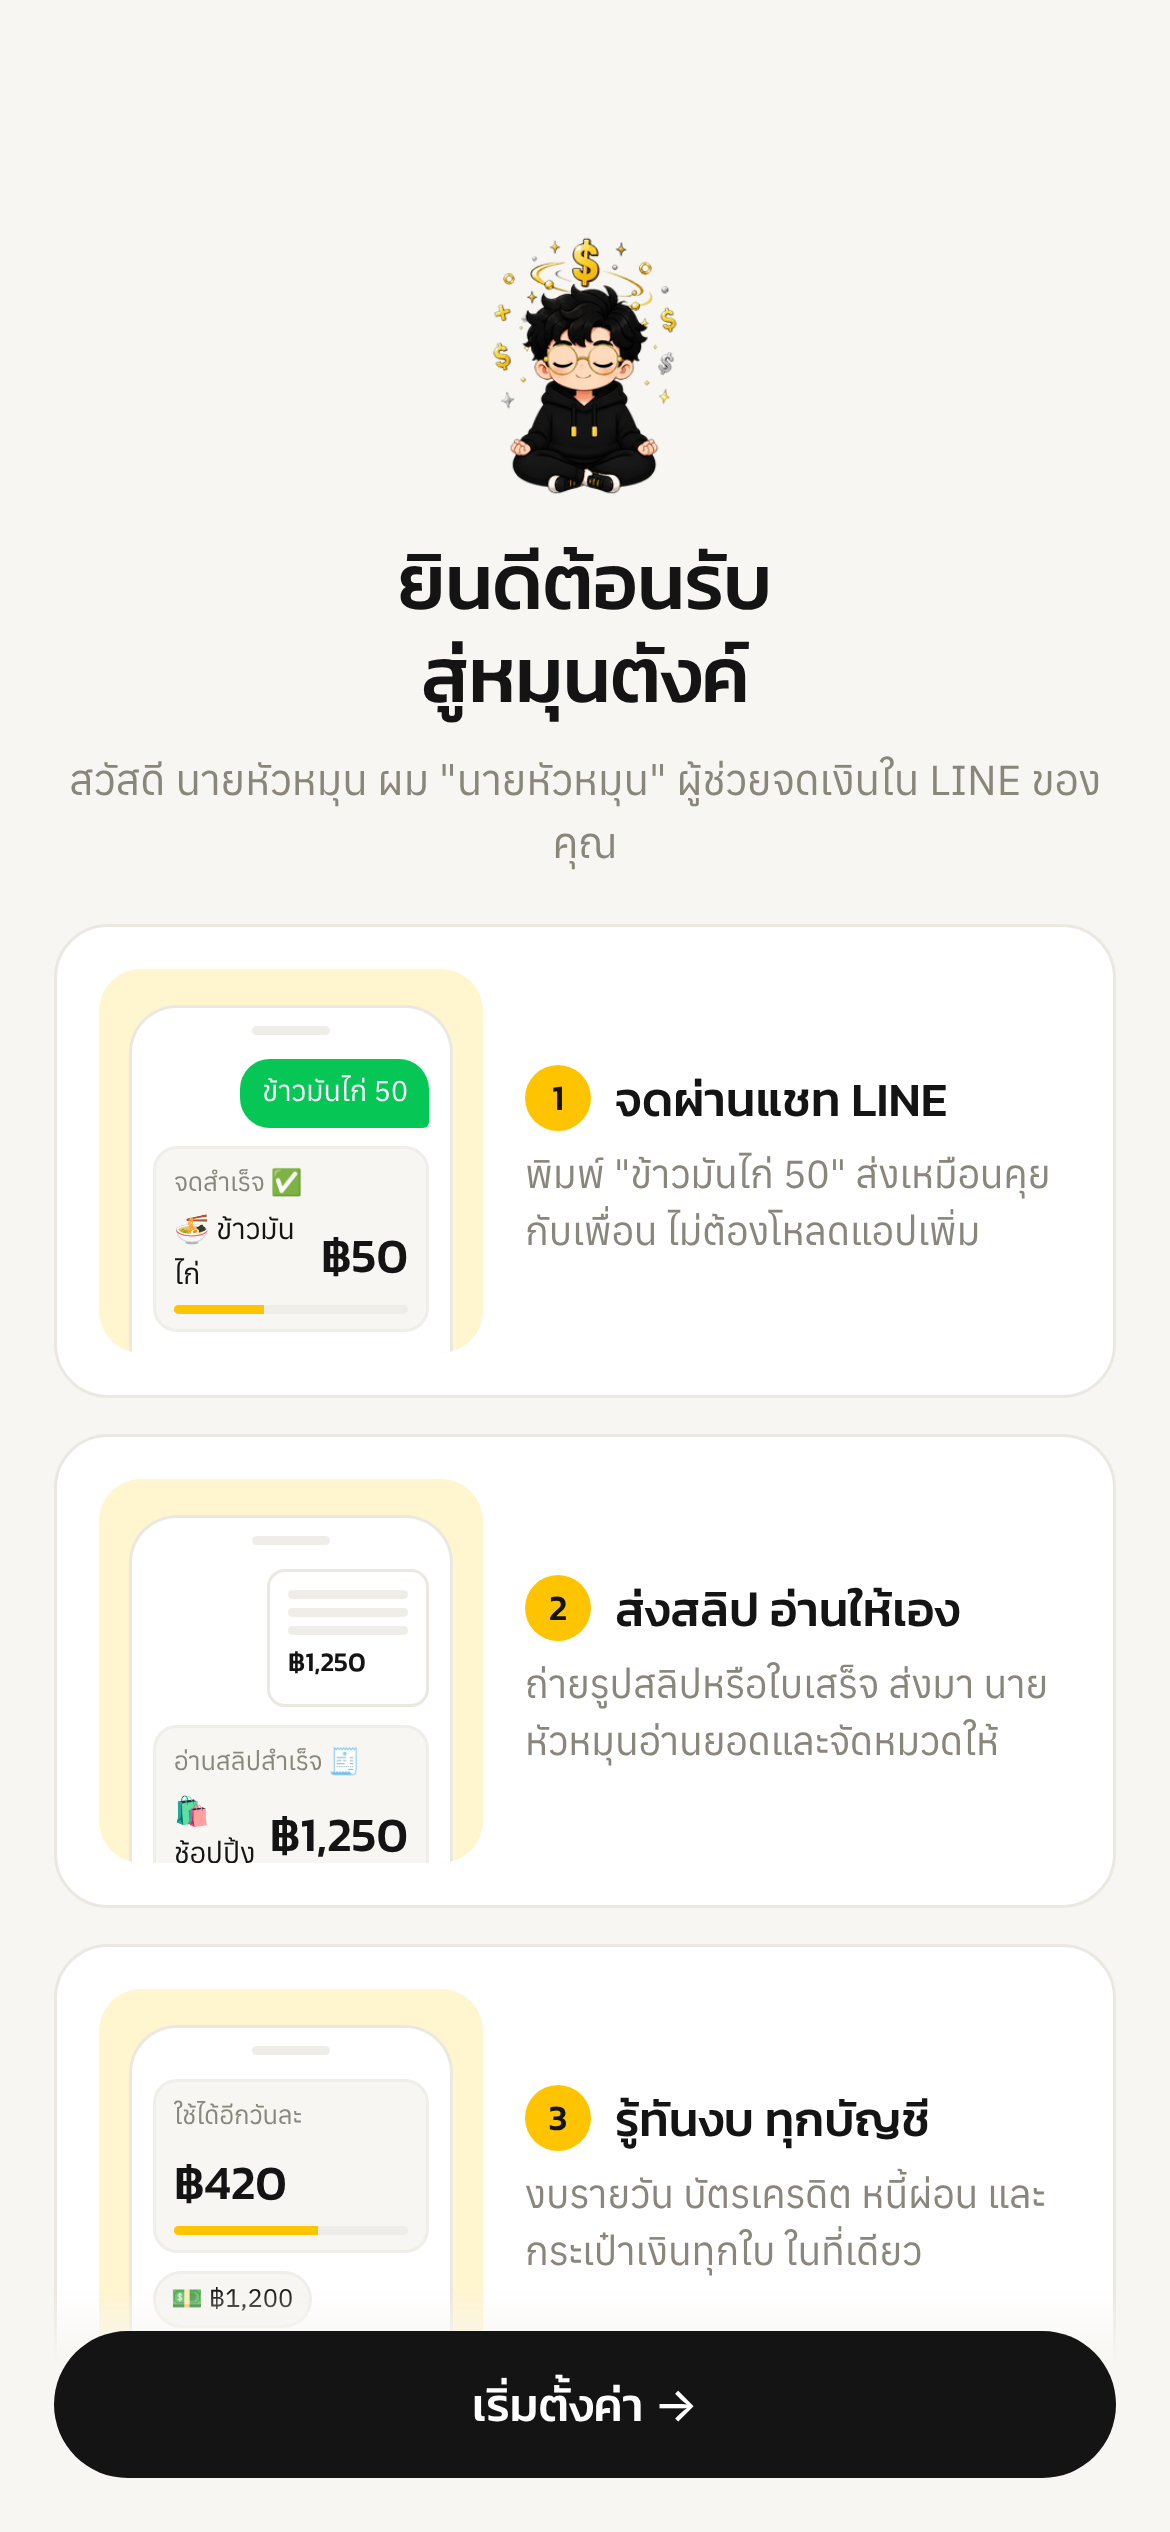
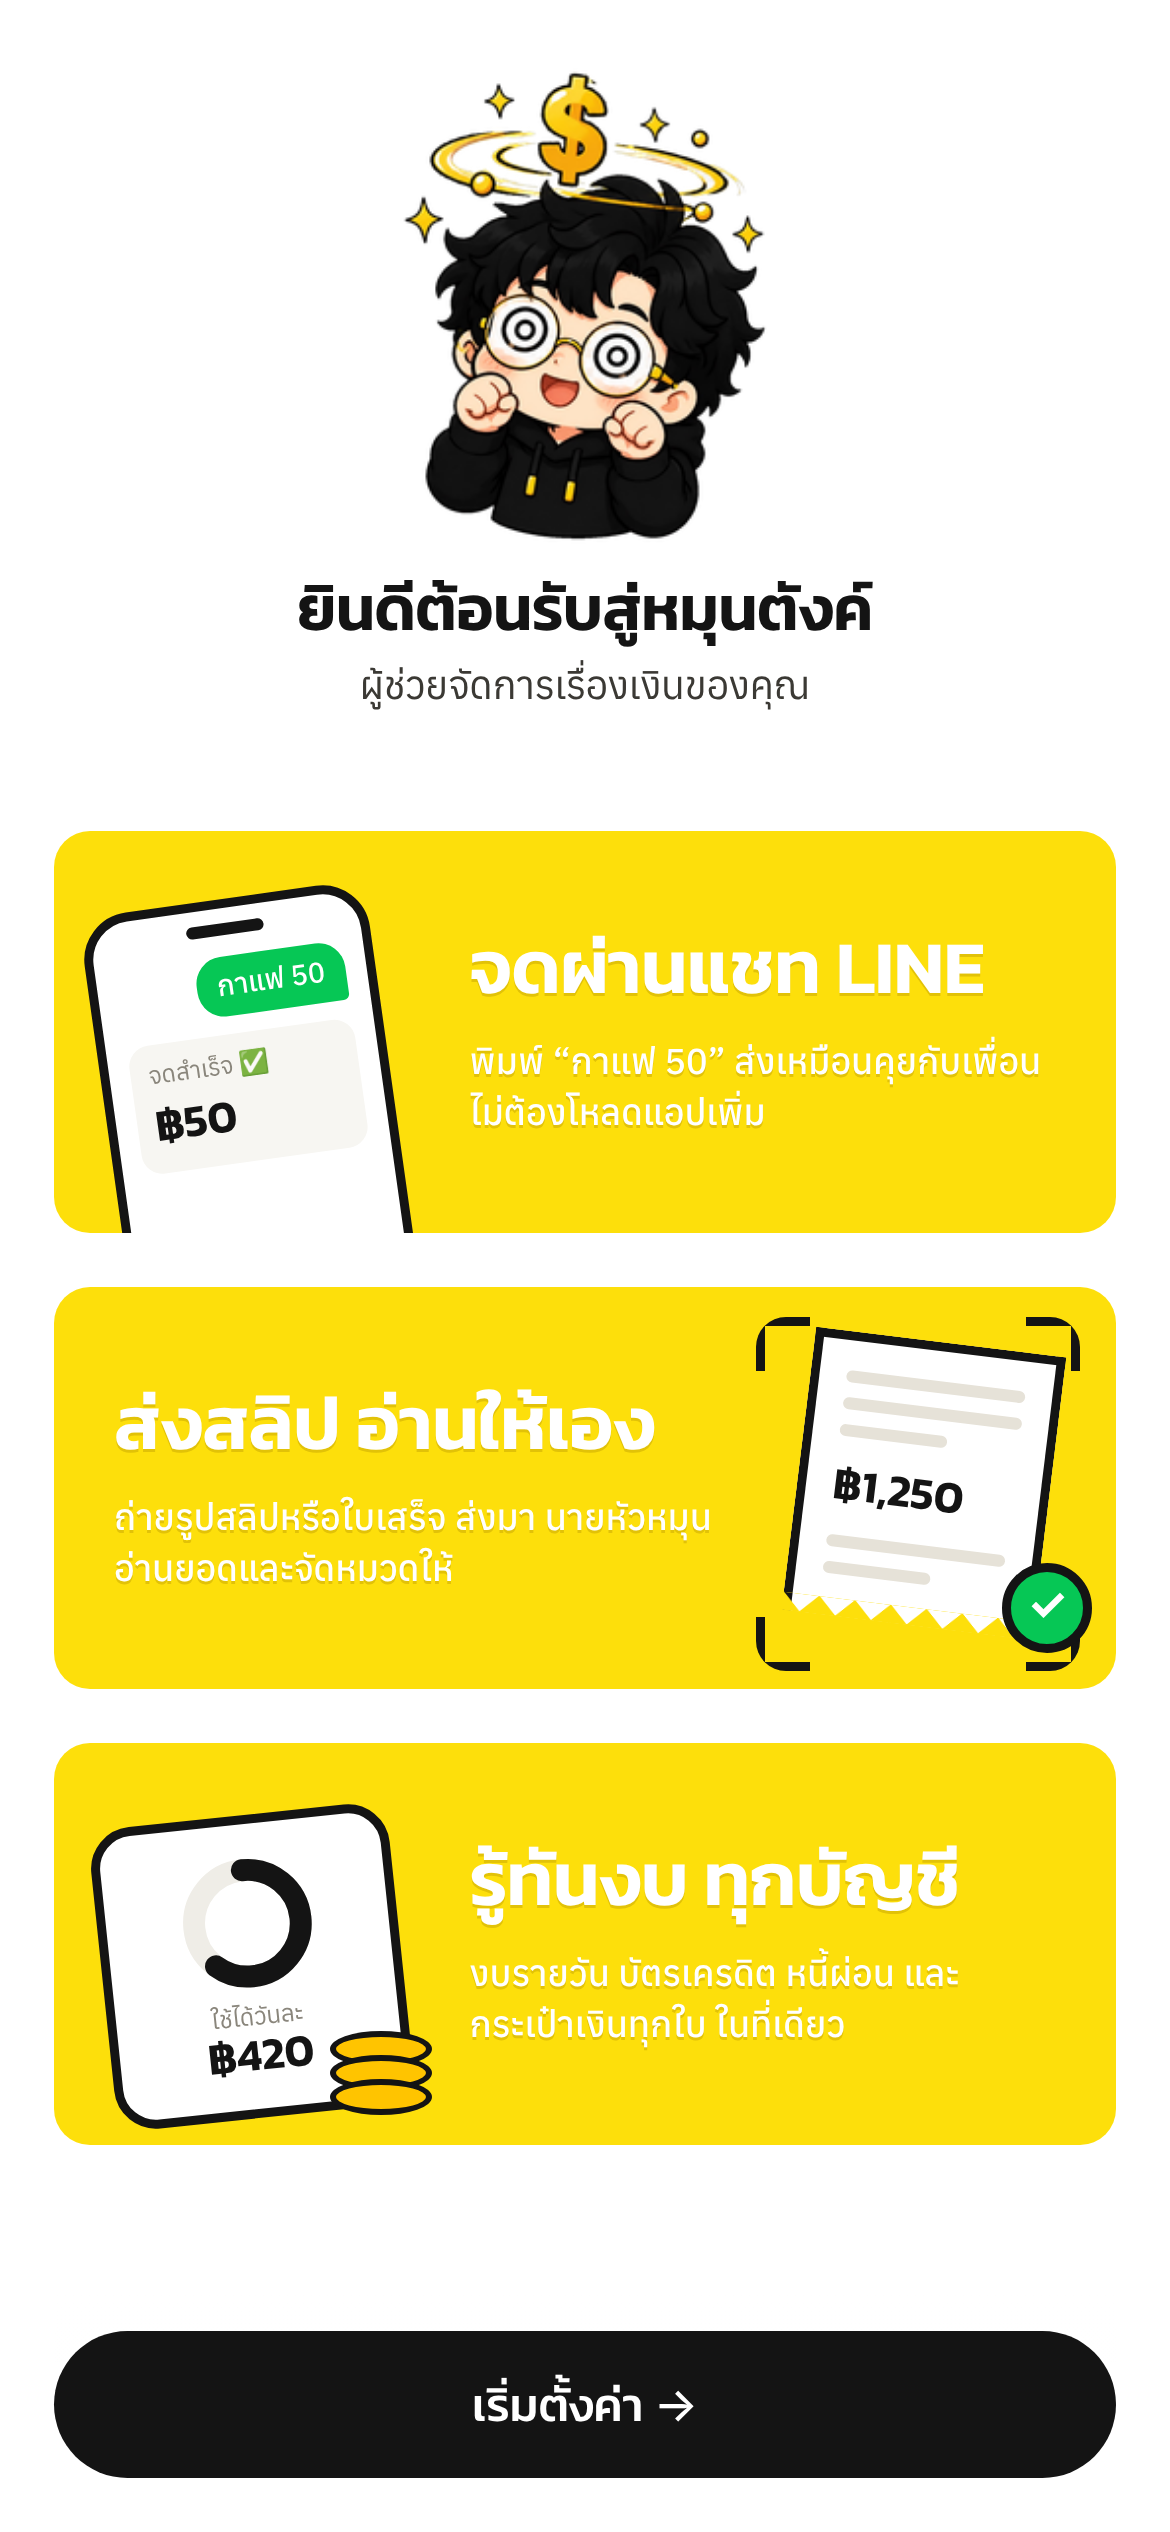
Welcome screen follows the new design: excited mascot, yellow feature cards with illustrations
Claude-Session: https://claude.ai/code/session_015tPG4ihv4SHZFFUdV6FxEj

diff --git a/public/css/app.css b/public/css/app.css
@@ -565,30 +565,55 @@ button.mt-budgetline { border: 0; background: none; padding: 0; text-align: left
 .ob-foot .mt-btn:disabled { background: var(--faint); cursor: default; }
 .ob-skip { border: 0; background: none; color: var(--muted); font-size: 14px; padding: 12px 14px; }
 
-/* ยินดีต้อนรับ */
+/* ยินดีต้อนรับ (ตามดีไซน์: พื้นขาว · นายหัวหมุนตาหมุน · การ์ดเหลืองข้อความขาว สลับซ้าย-ขวา) */
 .ob-hello { text-align: center; display: flex; flex-direction: column; align-items: center; gap: 4px; padding-top: 6px; }
 .ob-mascot { width: 92px; height: 92px; object-fit: contain; margin-bottom: 6px; }
-.ob-feats { display: grid; gap: 12px; }
-.ob-feat { display: grid; grid-template-columns: 128px 1fr; gap: 14px; align-items: center; background: var(--card); border: 1px solid var(--border); border-radius: var(--r-md); padding: 14px; }
-.ob-feat b { font-family: var(--font-display); font-weight: 500; font-size: 16px; display: flex; align-items: center; gap: 8px; }
-.ob-feat b .num { width: 22px; height: 22px; border-radius: 50%; background: var(--accent); display: grid; place-items: center; font-size: 12px; flex: 0 0 22px; }
-.ob-feat p { margin: 4px 0 0; font-size: 13px; color: var(--muted); }
-.ob-feat-m { background: var(--accent-soft); border-radius: 14px; padding: 12px 10px 0; overflow: hidden; height: 128px; }
-.ob-phone { background: var(--card); border: 1px solid var(--border); border-bottom: 0; border-radius: 16px 16px 0 0; padding: 6px 7px 10px; height: 100%; display: flex; flex-direction: column; gap: 6px; font-size: 9.5px; }
-.ob-phone-bar { display: flex; justify-content: center; padding-bottom: 2px; }
-.ob-phone-bar i { width: 26px; height: 3px; border-radius: 3px; background: var(--track); }
-.ob-bub { align-self: flex-end; background: #06c755; color: #fff; border-radius: 10px 10px 2px 10px; padding: 4px 7px; max-width: 90%; }
-.ob-card { background: var(--bg); border: 1px solid var(--line); border-radius: 8px; padding: 5px 6px; display: flex; flex-direction: column; gap: 3px; }
-.ob-card small { color: var(--muted); font-size: 8.5px; }
-.ob-row { display: flex; justify-content: space-between; gap: 4px; }
-.ob-bar { display: block; height: 3px; background: var(--track); border-radius: 3px; overflow: hidden; }
-.ob-bar b { display: block; height: 100%; background: var(--accent); }
-.ob-big { font-family: var(--font-num); font-size: 16px; font-weight: 500; }
-.ob-slip { display: grid; gap: 3px; width: 54px; background: var(--card); color: var(--ink); border: 1px solid var(--border); border-radius: 6px; padding: 6px; }
-.ob-slip i { display: block; height: 3px; background: var(--track); border-radius: 2px; }
-.ob-slip b { font-size: 9px; }
-.ob-chips { display: flex; flex-wrap: wrap; gap: 3px; }
-.ob-chips span { background: var(--bg); border: 1px solid var(--line); border-radius: 999px; padding: 2px 5px; font-size: 8.5px; }
+.mt-app[data-tab='onboard']:has(.ob-welcome), .mt-main:has(.ob-welcome) { background: #fff; }
+.ob-welcome .ob-foot { background: linear-gradient(to bottom, rgba(255, 255, 255, 0), #fff 30%); }
+.ob-hello-w { padding-top: 0; gap: 2px; }
+.ob-hello-w .ob-mascot { width: 168px; height: 168px; margin: 0 0 2px; }
+.ob-hello-w h1 { font-size: 21px; font-weight: 600; }
+.ob-hello-w p { margin-top: 2px; font-size: 13px; color: var(--ink-2); }
+.ob-feats { display: grid; gap: 18px; margin-top: 22px; }
+.ob-feat { --y: #fddf0b; position: relative; display: grid; grid-template-columns: 38% 1fr; align-items: center; min-height: 134px; background: var(--y); border-radius: 12px; overflow: hidden; color: #fff; }
+.ob-feat.is-left { grid-template-columns: 1fr 38%; }
+.ob-feat.is-left .ob-feat-t { order: -1; padding: 18px 0 18px 20px; }
+.ob-feat-t { padding: 18px 18px 18px 4px; }
+.ob-feat h2 { margin: 0; font-family: var(--font-display); font-weight: 600; font-size: 25px; line-height: 1.15; letter-spacing: -0.01em; text-shadow: 0 1px 0 rgba(176, 140, 0, 0.35); }
+.ob-feat p { margin: 8px 0 0; font-size: 12px; line-height: 1.45; font-weight: 500; text-shadow: 0 1px 0 rgba(176, 140, 0, 0.35); }
+.ob-feat-art { position: relative; align-self: stretch; min-height: 134px; }
+
+/* 1 · แชท: มือถือขาวเอียง โผล่จากขอบล่าง */
+.ob-art-phone { position: absolute; left: 18px; top: 22px; width: 96px; height: 150px; background: #fff; border-radius: 16px; border: 3px solid var(--ink); transform: rotate(-8deg); padding: 16px 7px 0; display: flex; flex-direction: column; gap: 6px; font-size: 9.5px; color: var(--ink); }
+.ob-art-notch { position: absolute; top: 5px; left: 50%; width: 26px; height: 4px; margin-left: -13px; border-radius: 4px; background: var(--ink); }
+.ob-art-bub { align-self: flex-end; background: #06c755; color: #fff; border-radius: 9px 9px 2px 9px; padding: 3px 7px; font-weight: 500; }
+.ob-art-ok { display: flex; flex-direction: column; background: #f7f6f2; border-radius: 7px; padding: 4px 6px; }
+.ob-art-ok small { font-size: 8px; color: var(--muted); }
+.ob-art-ok b { font-size: 15px; font-weight: 600; }
+
+/* 2 · สลิป: ใบเสร็จขาวขอบหยัก + กรอบสแกน + เครื่องหมายถูก */
+.ob-art-slip { position: absolute; right: 22px; top: 18px; width: 84px; padding: 10px 9px 14px; background: #fff; border: 3px solid var(--ink); border-bottom: 0; transform: rotate(7deg); display: flex; flex-direction: column; gap: 5px;
+  -webkit-mask: linear-gradient(#000 0 0) top / 100% calc(100% - 6px) no-repeat, conic-gradient(from -45deg at bottom, #0000, #000 1deg 89deg, #0000 90deg) bottom / 12px 6px repeat-x;
+  mask: linear-gradient(#000 0 0) top / 100% calc(100% - 6px) no-repeat, conic-gradient(from -45deg at bottom, #0000, #000 1deg 89deg, #0000 90deg) bottom / 12px 6px repeat-x; }
+.ob-art-slip i { display: block; height: 4px; border-radius: 3px; background: #e6e2d8; }
+.ob-art-slip i.is-s { width: 60%; }
+.ob-art-slip b { font-size: 15px; font-weight: 600; color: var(--ink); }
+.ob-art-scan { position: absolute; right: 12px; top: 10px; width: 108px; height: 118px; border-radius: 10px;
+  background: linear-gradient(var(--ink), var(--ink)) top left / 18px 3px, linear-gradient(var(--ink), var(--ink)) top left / 3px 18px, linear-gradient(var(--ink), var(--ink)) top right / 18px 3px, linear-gradient(var(--ink), var(--ink)) top right / 3px 18px,
+    linear-gradient(var(--ink), var(--ink)) bottom left / 18px 3px, linear-gradient(var(--ink), var(--ink)) bottom left / 3px 18px, linear-gradient(var(--ink), var(--ink)) bottom right / 18px 3px, linear-gradient(var(--ink), var(--ink)) bottom right / 3px 18px; background-repeat: no-repeat; }
+.ob-art-check { position: absolute; right: 8px; bottom: 12px; width: 30px; height: 30px; border-radius: 50%; background: #06c755; color: #fff; border: 3px solid var(--ink); display: grid; place-items: center; font-weight: 700; font-size: 15px; }
+
+/* 3 · งบ: การ์ดวงแหวน + กองเหรียญ */
+.ob-art-budget { position: absolute; left: 16px; top: 24px; width: 100px; padding: 10px 8px; background: #fff; border: 3px solid var(--ink); border-radius: 14px; transform: rotate(-6deg); display: flex; flex-direction: column; align-items: center; gap: 4px; color: var(--ink); }
+.ob-art-budget svg { width: 46px; height: 46px; transform: rotate(-90deg); }
+.ob-art-budget circle { fill: none; stroke-width: 7; }
+.ob-art-budget .t { stroke: #efede7; }
+.ob-art-budget .v { stroke: var(--ink); stroke-linecap: round; }
+.ob-art-budget span { display: flex; flex-direction: column; align-items: center; line-height: 1.1; }
+.ob-art-budget small { font-size: 8px; color: var(--muted); }
+.ob-art-budget b { font-size: 15px; font-weight: 600; }
+.ob-art-coins { position: absolute; left: 92px; bottom: 10px; display: flex; flex-direction: column-reverse; }
+.ob-art-coins i { width: 34px; height: 12px; margin-top: -4px; border-radius: 50%; background: #ffc400; border: 2.5px solid var(--ink); }
 
 /* รู้จักจากไหน */
 .ob-opts { display: grid; grid-template-columns: repeat(2, 1fr); gap: 10px; }
@@ -644,9 +669,8 @@ select.ob-sel { appearance: none; padding-right: 14px; }
   .mt-main.ob-main { max-width: 600px; }
   .ob-cats { grid-template-columns: repeat(4, minmax(0, 1fr)); }
   .ob-opts { grid-template-columns: repeat(3, 1fr); }
-  .ob-feats { grid-template-columns: repeat(3, 1fr); }
-  .ob-feat { grid-template-columns: 1fr; }
-  .ob-feat-m { height: 150px; }
+  .ob-feat h2 { font-size: 28px; }
+  .ob-feat p { font-size: 13.5px; }
 }
 @container mt (min-width: 1000px) {
   .mt-main.ob-main { margin: 0 auto; max-width: 760px; padding-top: 40px; display: block; }

diff --git a/public/js/onboard.js b/public/js/onboard.js
@@ -64,29 +64,30 @@ function head(ob, title, sub) {
 const foot = (label, { act = 'obnext', disabled = false, skip = '' } = {}) =>
   `<footer class="ob-foot">${skip ? `<button class="ob-skip" data-act="obskip">${skip}</button>` : ''}<button class="mt-btn ob-next" data-act="${act}" ${disabled ? 'disabled' : ''}>${label}</button></footer>`;
 
-/** โทรศัพท์จำลองบนการ์ดฟีเจอร์ */
-const phone = (inner) => `<div class="ob-phone" aria-hidden="true"><div class="ob-phone-bar"><i></i></div>${inner}</div>`;
+/** การ์ดฟีเจอร์หน้าแรก (ตามดีไซน์: การ์ดเหลือง ข้อความขาว สลับซ้าย-ขวา ภาพประกอบอีกฝั่ง) */
 const FEATURES = [
   {
     t: 'จดผ่านแชท LINE',
-    d: 'พิมพ์ "ข้าวมันไก่ 50" ส่งเหมือนคุยกับเพื่อน ไม่ต้องโหลดแอปเพิ่ม',
-    m: () =>
-      phone(`<div class="ob-bub is-me">ข้าวมันไก่ 50</div>
-        <div class="ob-card"><small>จดสำเร็จ ✅</small><div class="ob-row"><span>🍜 ข้าวมันไก่</span><b class="num">฿50</b></div><i class="ob-bar"><b style="width:38%"></b></i></div>`),
+    d: 'พิมพ์ “กาแฟ 50” ส่งเหมือนคุยกับเพื่อน ไม่ต้องโหลดแอปเพิ่ม',
+    side: 'right',
+    art: `<div class="ob-art-phone"><i class="ob-art-notch"></i>
+        <span class="ob-art-bub">กาแฟ 50</span>
+        <span class="ob-art-ok"><small>จดสำเร็จ ✅</small><b class="num">฿50</b></span></div>`,
   },
   {
     t: 'ส่งสลิป อ่านให้เอง',
     d: 'ถ่ายรูปสลิปหรือใบเสร็จ ส่งมา นายหัวหมุนอ่านยอดและจัดหมวดให้',
-    m: () =>
-      phone(`<div class="ob-bub is-me ob-slip"><i></i><i></i><i></i><b class="num">฿1,250</b></div>
-        <div class="ob-card"><small>อ่านสลิปสำเร็จ 🧾</small><div class="ob-row"><span>🛍 ช้อปปิ้ง</span><b class="num">฿1,250</b></div></div>`),
+    side: 'left',
+    art: `<div class="ob-art-slip"><i></i><i></i><i class="is-s"></i><b class="num">฿1,250</b><i></i><i class="is-s"></i></div>
+        <span class="ob-art-scan"></span><span class="ob-art-check">✓</span>`,
   },
   {
     t: 'รู้ทันงบ ทุกบัญชี',
     d: 'งบรายวัน บัตรเครดิต หนี้ผ่อน และกระเป๋าเงินทุกใบ ในที่เดียว',
-    m: () =>
-      phone(`<div class="ob-card"><small>ใช้ได้อีกวันละ</small><b class="ob-big num">฿420</b><i class="ob-bar"><b style="width:62%"></b></i></div>
-        <div class="ob-chips"><span>💵 ฿1,200</span><span>🏦 ฿18,400</span><span>💳 ฿3,150</span></div>`),
+    side: 'right',
+    art: `<div class="ob-art-budget"><svg viewBox="0 0 44 44"><circle cx="22" cy="22" r="17" class="t"/><circle cx="22" cy="22" r="17" class="v" pathLength="100" stroke-dasharray="62 100"/></svg>
+        <span><small>ใช้ได้วันละ</small><b class="num">฿420</b></span></div>
+        <span class="ob-art-coins"><i></i><i></i><i></i></span>`,
   },
 ];
 
@@ -122,9 +123,8 @@ export function onboardHTML(ob, data, { logoUrl = '', moods = {} } = {}) {
   const mascot = (lvl = 'calm') => `<img class="ob-mascot" src="${esc(moods[lvl] || logoUrl)}" alt="">`;
   let inner = '';
   if (step === 'welcome') {
-    inner = `<header class="ob-head"><span></span><span></span><span></span></header>
-      <div class="ob-hello">${mascot('calm')}<h1>ยินดีต้อนรับ<br>สู่หมุนตังค์</h1><p>สวัสดี ${esc(data.user.name)} ผม "นายหัวหมุน" ผู้ช่วยจดเงินใน LINE ของคุณ</p></div>
-      <div class="ob-feats">${FEATURES.map((f, k) => `<article class="ob-feat"><div class="ob-feat-m">${f.m()}</div><div><b><span class="num">${k + 1}</span>${f.t}</b><p>${f.d}</p></div></article>`).join('')}</div>
+    inner = `<div class="ob-hello ob-hello-w">${mascot('spin')}<h1>ยินดีต้อนรับสู่หมุนตังค์</h1><p>ผู้ช่วยจัดการเรื่องเงินของคุณ</p></div>
+      <div class="ob-feats">${FEATURES.map((f) => `<article class="ob-feat is-${f.side}"><div class="ob-feat-art" aria-hidden="true">${f.art}</div><div class="ob-feat-t"><h2>${f.t}</h2><p>${f.d}</p></div></article>`).join('')}</div>
       ${foot('เริ่มตั้งค่า →')}`;
   } else if (step === 'heard') {
     inner = `${head(ob, 'รู้จักหมุนตังค์จากช่องทางไหน?', 'ช่วยบอกหน่อย จะได้รู้ว่าควรไปทักทายเพื่อนใหม่ที่ไหน')}
